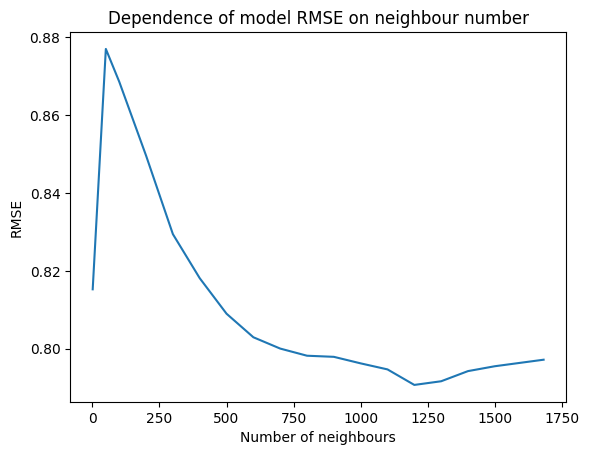
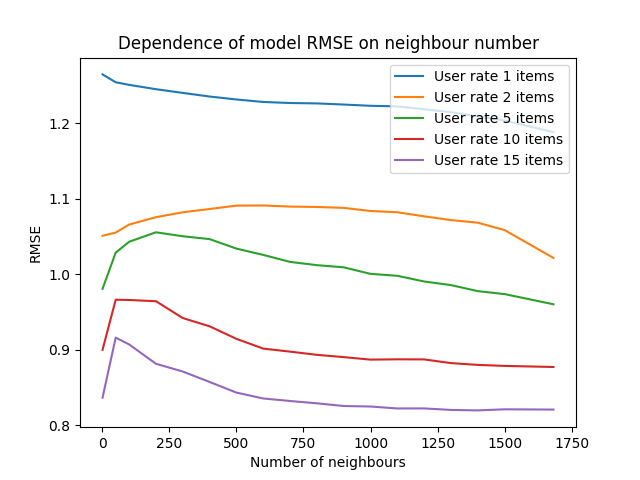
Change report

diff --git a/benchmark/evaluate.py b/benchmark/evaluate.py
@@ -1,5 +1,17 @@
 import math
+import random
+from models.CF_using_cosine_similarity import ItemToItemCollaborativeFiltering
+import pandas as pd
+import matplotlib.pyplot as plt
 
+# Preprocessing
+rating_df = pd.read_csv("../data/raw/ml-100k/u.data", sep="\t", index_col=False, names=["userID", "itemID", "rating"])
+user_items_list = []  # Will contains the list of items that user rate and ratings
+for i in range(943):
+    user_items_list.append([])
+
+for index, r in rating_df.iterrows():
+    user_items_list[r["userID"] - 1].append((r["rating"], r["itemID"] - 1))
 
 def calc_avg_RMSE(X, y, model):
     avg_RMSE = 0
@@ -12,3 +24,42 @@ def calc_avg_RMSE(X, y, model):
         avg_RMSE += RMSE
     avg_RMSE /= len(X)
     return avg_RMSE
+
+def train_test_split(user_items_list, frac, num_of_items_that_user_rate):
+    splt_idx = int(frac * len(user_items_list))
+    train_data = user_items_list[:splt_idx]
+    y_test = user_items_list[splt_idx:]
+    X_test = []
+    for items_rating in y_test:
+        X_test.append(random.choices(items_rating, k=num_of_items_that_user_rate))
+    return train_data, X_test, y_test
+
+# Next, we will benchmark the model for different number of neighbours
+# and different number of rated items for user.
+# Of course, we expect that an increasing in the number of rated items will result
+# in an increase in the quality of recommendations.
+
+# Note: code below work about ≈50 minutes. If you want to evaluate model faster,
+# you can drop some number of rated items or number of neighbours or increase the frac.
+
+frac = 0.9 # fraction of data that will use for training
+nums_items_user_rate = [1, 2, 5, 10, 15] # Number of rated items for the user
+for num_of_items_that_user_rate in nums_items_user_rate:
+    train_data, X_test, y_test = train_test_split(user_items_list, frac, num_of_items_that_user_rate)
+    avg_RMSEs = []
+    
+    # Number of neighbours
+    nbs = [1, 50, 100, 200, 300, 400, 500, 600, 700, 800, 900, 1000, 1100, 1200, 1300, 1400, 1500, 1682]
+    for nb in nbs:
+        print(f"{nb} neigbours consider...")
+        model = ItemToItemCollaborativeFiltering(n_users=len(train_data), n_items=1682, n_neighbors=nb)
+        model.fit(train_data)
+        avg_RMSEs.append(calc_avg_RMSE(X_test, y_test, model))
+
+    plt.plot(nbs, avg_RMSEs, label=f'User rate {num_of_items_that_user_rate} items')
+
+plt.xlabel('Number of neighbours')
+plt.ylabel('RMSE')
+plt.title('Dependence of model RMSE on neighbour number')
+plt.legend()
+plt.show()

diff --git a/benchmark/demostrative_example.py b/benchmark/demostrative_example.py
@@ -1,0 +1,44 @@
+import math
+import random
+from models.CF_using_cosine_similarity import ItemToItemCollaborativeFiltering
+import pandas as pd
+import matplotlib.pyplot as plt
+
+# Preprocessing
+rating_df = pd.read_csv("../data/raw/ml-100k/u.data", sep="\t", index_col=False, names=["userID", "itemID", "rating"])
+user_items_list = []  # Will contains the list of items that user rate and ratings
+for i in range(943):
+    user_items_list.append([])
+
+for index, r in rating_df.iterrows():
+    user_items_list[r["userID"] - 1].append((r["rating"], r["itemID"] - 1))
+
+model = ItemToItemCollaborativeFiltering(n_users=len(user_items_list), n_items=1682, n_neighbors=1682)
+model.fit(user_items_list)
+
+# For instance, I like very popular movies like this:
+my_movies_ratings = [
+    (5, 182),  # - Alien
+    (5, 233),  # - Jaws
+    (5, 97),   # - Silence of the Lambs
+    (5, 10),   # - Se7en
+    (5, 184),  # - Psycho
+    (5, 199),  # - Shining
+    (5, 178),  # - Clockwork Orange
+    (5, 179),  # - Apocalypse Now
+    (5, 194),  # - Terminator
+    (5, 55),   # - Pulp Fiction
+    (5, 187),  # - Full Metal Jacket
+    (5, 99),   # - Fargo
+]
+# I think when you like movies similar to movies above you should not appreciate some not popular movie (1671) :)
+pred_rating_for_not_popular_film = model.predict(my_movies_ratings)[800]
+print("Prediction rating for some not popular film", pred_rating_for_not_popular_film)
+
+# But for 'The  Godfather' it should pretty high
+pred_rating_for_Godfather = model.predict(my_movies_ratings)[126]
+print("Prediction rating for 'The Godfather'", pred_rating_for_Godfather)
+
+
+
+

diff --git a/reports/report.md b/reports/report.md
@@ -137,4 +137,11 @@ The evaluation the model's performance using different numbers of neighbors:
 ![img.png](figures/model_RMSEs.png)
 
 ### Conclusion
+Based on the graph above, we can make three observations:
 
+1. The more the model knows about user preferences, the better it predicts ratings (Obviously)
+2. model works better when number of neighbours is maximum possible value.
+3. strange rapid growth of the RMSE for the small number of neighbours.
+
+From the second and third observations, we can conclude that there is no strong correlation between items.
+Therefore, it is important for models to gather information about as many items as possible so that the weighted average formula calculates predictions more accurately.
